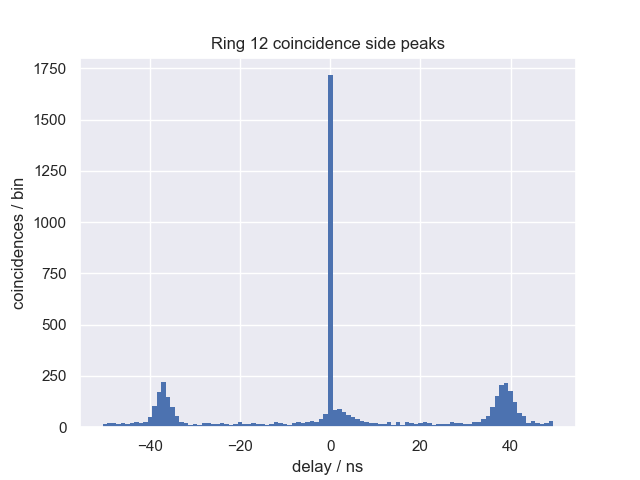
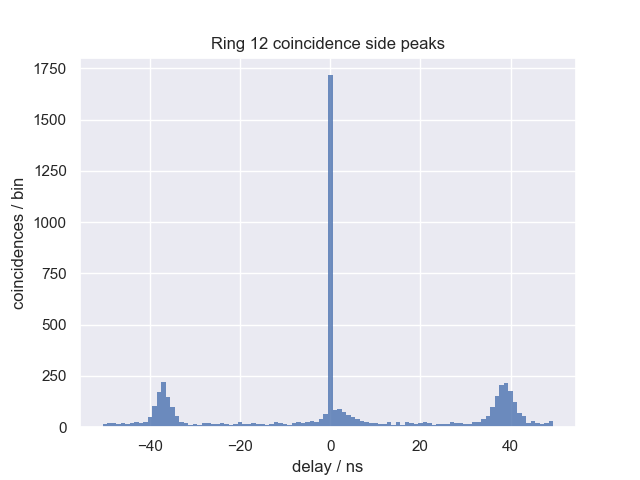
Project A

Changed region(s): [[0.1562, 0.1562, 0.875, 0.9062]]

diff --git a/plotters/q_factors.py b/plotters/q_factors.py
@@ -46,6 +46,20 @@ PEAK_WAVELENGTHS = {
     # 17: [1549.6,],
     # 24: [1547.7,],
 }
+# Radius, gap, textbox coords
+RING_DATA = {
+    1: [0.251, 21, (0.05, 0.05)],
+    3: [0.28, 21, (0.54, 0.05)],
+    4: [0.299, 21, (0.92, 0.05)],
+    5: [0.251, 36, (0.05, 0.25)],
+    7: [0.28, 36, (0.54, 0.25)],
+    9: [0.251, 52, (0.05, 0.58)],
+    11: [0.28, 52, (0.51, 0.58)],
+    12: [0.299, 52, (0.89, 0.58)],
+    13: [0.251, 67, (0.05, 0.9)],
+    15: [0.28, 67, (0.51, 0.9)],
+    16: [0.299, 67, (0.89, 0.9)],
+}
 
 
 def main():
@@ -54,7 +68,8 @@ def main():
     plot_mean_q_factors()
 
 
-def plot_mean_q_factors():
+def plot_mean_q_factors(scatter=True):
+    ax = plt.subplot()
     mean_q_factors = {}
     for ring, file in FILES.items():
         peaks = PEAK_WAVELENGTHS[ring]
@@ -65,6 +80,43 @@ def plot_mean_q_factors():
             q_factors.append(q)
         mean_q_factors[ring] = np.mean(q_factors)
     q_factor_heatmap(mean_q_factors)
+
+    if scatter:
+        # Scatter plot ring labels
+        labels = []
+        gaps = []
+        radii = []
+        box_coords = []
+        for ring, coords in RING_DATA.items():
+            labels.append(str(ring))
+            gaps.append(coords[0])
+            radii.append(coords[1])
+            box_coords.append(coords[2])
+        plt.scatter(gaps, radii, color='wheat', marker='o')
+        plt.scatter(gaps, radii, marker='x')
+
+        for i, label in enumerate(labels):
+            print(label)
+            props = dict(boxstyle='round', facecolor='wheat')
+            ax.text(
+                # gaps[i],
+                # radii[i],
+                *box_coords[i],
+                label,
+                transform=ax.transAxes,
+                fontsize=14,
+                verticalalignment='bottom',
+                bbox=props
+            )
+
+    if LOWPASS:
+        plt.savefig("figures/q_factor_heatmap_lowpass.png")
+    elif scatter:
+        plt.savefig("figures/q_factor_heatmap_labeled.png")
+    else:
+        plt.savefig("figures/q_factor_heatmap.png")
+
+    plt.show()
 
 
 def q_factor_heatmap(q_factors: dict):
@@ -79,6 +131,8 @@ def q_factor_heatmap(q_factors: dict):
     y = np.array(params["Radius"])
     z = np.array(params["Q Factor"])
 
+    print("Highest Q factor:", max(z))
+
     X, Y = np.meshgrid(
         np.linspace(np.min(x), np.max(x), 20),
         np.linspace(np.min(y), np.max(y), 20)
@@ -90,11 +144,6 @@ def q_factor_heatmap(q_factors: dict):
     plt.xlabel(r"gap / $\mu$m")
     plt.ylabel(r"radius / $\mu$m")
     plt.title("Ring resonator Q factor")
-    if LOWPASS:
-        plt.savefig("figures/q_factor_heatmap_lowpass.png")
-    else:
-        plt.savefig("figures/q_factor_heatmap.png")
-    plt.show()
 
 
 def plot_lorentzian(file, mu):
@@ -147,12 +196,18 @@ def fit_lorentzian(filepath, mu, fsr=0.5, plot=False, filt=False):
     guess = (a, mu, lam, c)
     popt, pcov = curve_fit(lorentzian, wavelength, transmission, guess)
     a, mu, lam, c = popt
-    lorentzian_fit = lorentzian(wavelength, a, mu, lam, c)
 
     if plot:
         plt.figure()
-        plt.plot(wavelength, transmission)
-        plt.plot(wavelength, lorentzian_fit)
+        plt.scatter(wavelength, transmission, color='k', marker='x')
+
+        # Upsample wavelengths for plotting Lorentzian
+        wavelength = np.linspace(min(wavelength), max(wavelength), 1001)
+        lorentzian_fit = lorentzian(wavelength, a, mu, lam, c)
+        plt.plot(wavelength, lorentzian_fit, label="Lorentzian fit")
+        plt.legend(loc="lower left")
+        plt.xlabel("wavelength / nm")
+        plt.ylabel("transmission / dB")
 
     q_factor = mu / lam
     print(q_factor)

diff --git a/plotters/lorentzian_fit.py b/plotters/lorentzian_fit.py
@@ -1,0 +1,16 @@
+from pathlib import Path
+from matplotlib import pyplot as plt
+from q_factors import fit_lorentzian
+
+SRC_DIR = Path(__file__).parents[1]
+RESONANCE_DIR = SRC_DIR / "data" / "resonance"
+# FILE = "ring-15 2023-12-01 10-27-48.csv"
+# PEAK = 1543
+FILE = "ring-12 2023-12-13 10-04-47.csv"
+PEAK = 1547.5
+
+file_path = RESONANCE_DIR / FILE
+fit_lorentzian(file_path, PEAK, plot=True)
+plt.title("Lorentzian fitted to ring 12 transmission spectrum")
+plt.savefig("figures/lorentzian_fit")
+plt.show()

diff --git a/swabian/parameters.py b/swabian/parameters.py
@@ -1,10 +1,10 @@
 swabian_host = '137.222.69.58'
 swabian_port = 23000
-swabian_ch1 = 5
-swabian_ch2 = 6
+swabian_ch1 = 16
+swabian_ch2 = 17
 swabian_chs = (swabian_ch1, swabian_ch2)
 
 # shaun_ch1 = 17  # M9
-shaun_ch1 = 9  # M1
-shaun_ch2 = 10  # M2
+shaun_ch1 = 19  # M11
+shaun_ch2 = 20  # M12
 shaun_chs = (shaun_ch1, shaun_ch2)

diff --git a/plotters/brightness_vs_power.py b/plotters/brightness_vs_power.py
@@ -54,6 +54,5 @@ props = dict(boxstyle='round', facecolor='wheat', alpha=0.5)
 ax.text(0.05, 0.05, textstr, transform=ax.transAxes, fontsize=14,
         verticalalignment='bottom', bbox=props)
 
-
 plt.savefig(r"figures/brightness_vs_power.png")
 plt.show()

diff --git a/plotters/car_vs_power.py b/plotters/car_vs_power.py
@@ -33,6 +33,8 @@ for file in FILES:
     filepath = DATA_DIR / file
     cars.append(calculate_car(filepath))
 
+print("Highest CAR", max(cars))
+
 plt.scatter(powers, cars, marker='x')
 plt.xlabel("power / dBm")
 plt.ylabel("CAR")

diff --git a/plotters/side_peaks.py b/plotters/side_peaks.py
@@ -35,7 +35,7 @@ plt.bar(
        delay,
        coins,
        # color='g',
-       # alpha=0.5,
+       alpha=0.8,
        width=binwidth,
        label="coincidences",
 )
